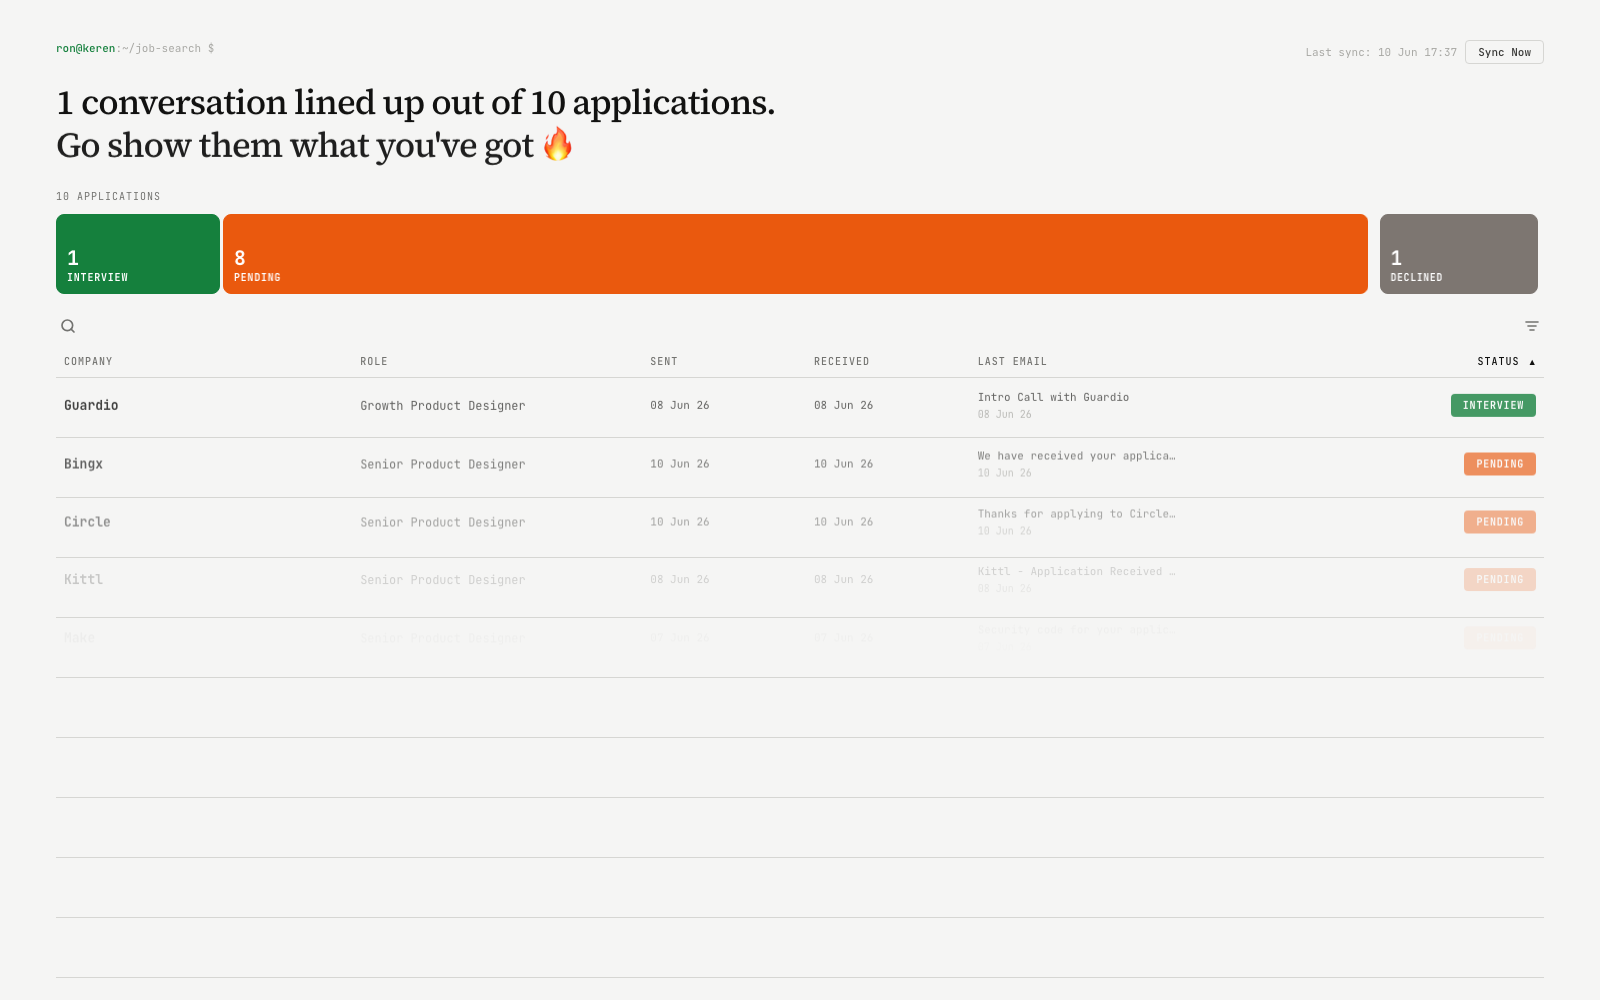
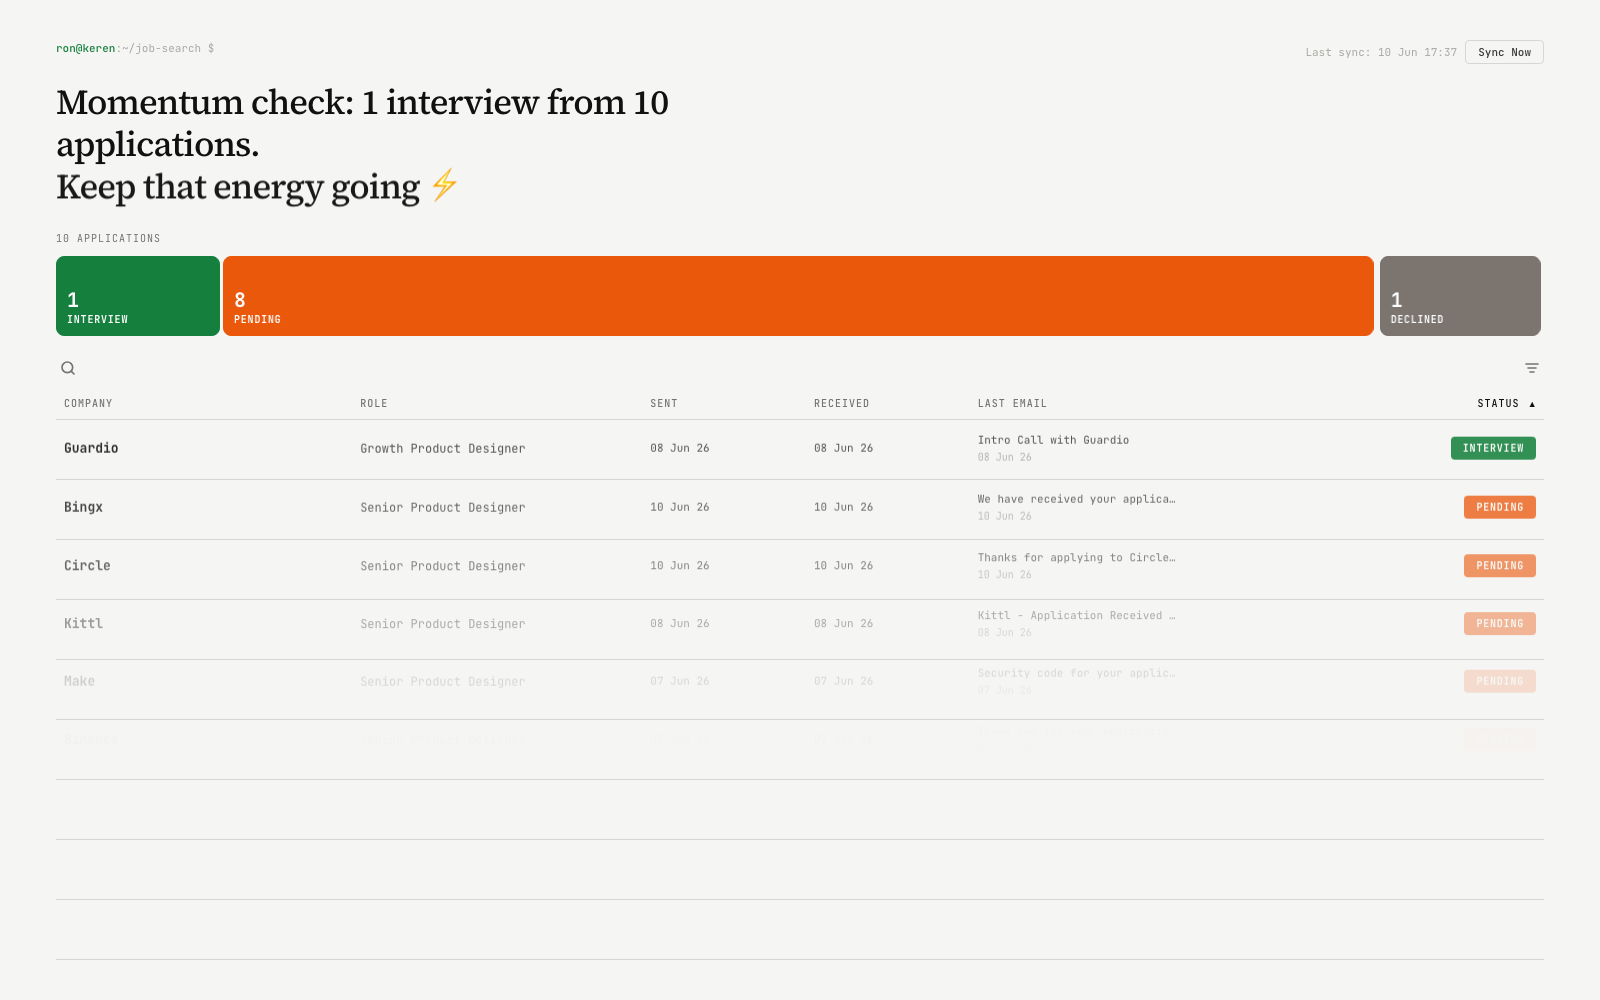
Add search clear button and fix popover outside-click handling
Update README dashboard screenshot

diff --git a/website/index.html b/website/index.html
@@ -189,12 +189,12 @@
     .table-toolbar {
       position: relative;
       display: flex;
-      justify-content: flex-end;
+      justify-content: space-between;
       align-items: center;
       gap: 12px;
       margin-bottom: 8px;
     }
-    .filter-toggle {
+    .search-toggle, .filter-toggle {
       display: inline-flex;
       align-items: center;
       justify-content: center;
@@ -208,8 +208,8 @@
       transition: color 0.12s;
       flex-shrink: 0;
     }
-    .filter-toggle:hover { color: var(--text); }
-    .filter-toggle svg { width: 16px; height: 16px; pointer-events: none; }
+    .search-toggle:hover, .filter-toggle:hover { color: var(--text); }
+    .search-toggle svg, .filter-toggle svg { width: 16px; height: 16px; pointer-events: none; }
 
     .filters { display: none; }
     .filters.open {
@@ -228,6 +228,57 @@
       z-index: 10;
       white-space: nowrap;
     }
+
+    .search-popover { display: none; }
+    .search-popover.open {
+      display: flex;
+      align-items: center;
+      position: absolute;
+      top: 100%;
+      left: 0;
+      margin-top: 8px;
+      padding: 8px 12px;
+      background: var(--bg);
+      border: 1px solid var(--border);
+      border-radius: 8px;
+      z-index: 10;
+      white-space: nowrap;
+    }
+    .search-input-wrap {
+      position: relative;
+      display: flex;
+      align-items: center;
+    }
+    .search-input {
+      font-family: var(--mono);
+      font-size: 11px;
+      padding: 4px 26px 4px 10px;
+      border: 1px solid var(--border);
+      background: none;
+      color: var(--text);
+      border-radius: 999px;
+      outline: none;
+      width: 180px;
+    }
+    .search-input:focus { border-color: var(--dim); }
+    .search-clear {
+      display: none;
+      position: absolute;
+      right: 6px;
+      align-items: center;
+      justify-content: center;
+      width: 16px;
+      height: 16px;
+      border: none;
+      background: none;
+      padding: 0;
+      color: var(--muted);
+      cursor: pointer;
+      border-radius: 50%;
+    }
+    .search-clear svg { width: 11px; height: 11px; pointer-events: none; }
+    .search-clear:hover { color: var(--text); }
+    .search-clear.visible { display: flex; }
 
     .date-input {
       font-family: var(--mono);
@@ -481,6 +532,17 @@
 
   <!-- Table toolbar -->
   <div class="table-toolbar">
+    <div class="search-popover" id="search-popover">
+      <div class="search-input-wrap">
+        <input type="text" class="search-input" id="search-input" placeholder="Search company..." />
+        <button class="search-clear" id="search-clear" onclick="clearSearch()" title="Clear">
+          <svg viewBox="0 0 24 24" fill="none" stroke="currentColor" stroke-width="2.5" stroke-linecap="round" stroke-linejoin="round"><line x1="18" y1="6" x2="6" y2="18"></line><line x1="6" y1="6" x2="18" y2="18"></line></svg>
+        </button>
+      </div>
+    </div>
+    <button class="search-toggle" id="search-toggle" onclick="toggleSearch()" title="Search">
+      <svg id="search-icon" viewBox="0 0 24 24" fill="none" stroke="currentColor" stroke-width="2.5" stroke-linecap="round" stroke-linejoin="round"><circle cx="11" cy="11" r="8"></circle><line x1="21" y1="21" x2="16.65" y2="16.65"></line></svg>
+    </button>
     <div class="filters" id="filters-row">
       <div class="filter-chips" id="status-filters"></div>
       <div class="filter-divider"></div>
@@ -521,6 +583,7 @@
     let allApps = [];
     let activeStatus = 'all';
     let dateFrom = null, dateTo = null;
+    let searchQuery = '';
 
     function fmtDate(iso) {
       if (!iso) return '—';
@@ -557,6 +620,7 @@
         if (activeStatus !== 'all' && a.status !== activeStatus) return false;
         if (dateFrom && a.dateApplied < dateFrom) return false;
         if (dateTo && a.dateApplied > dateTo) return false;
+        if (searchQuery && !a.company.toLowerCase().includes(searchQuery)) return false;
         return true;
       });
 
@@ -720,14 +784,39 @@
     }
 
     const FILTER_ICON = `<line x1="3" y1="6" x2="21" y2="6"></line><line x1="6" y1="12" x2="18" y2="12"></line><line x1="9" y1="18" x2="15" y2="18"></line>`;
+    const SEARCH_ICON = `<circle cx="11" cy="11" r="8"></circle><line x1="21" y1="21" x2="16.65" y2="16.65"></line>`;
     const CLOSE_ICON = `<line x1="18" y1="6" x2="6" y2="18"></line><line x1="6" y1="6" x2="18" y2="18"></line>`;
 
-    function toggleFilters() {
+    function toggleFilters(forceClose) {
       const row = document.getElementById('filters-row');
       const icon = document.getElementById('filter-icon');
-      const isOpen = row.classList.toggle('open');
+      const isOpen = forceClose ? false : !row.classList.contains('open');
+      row.classList.toggle('open', isOpen);
       icon.innerHTML = isOpen ? CLOSE_ICON : FILTER_ICON;
     }
+
+    function toggleSearch(forceClose) {
+      const popover = document.getElementById('search-popover');
+      const icon = document.getElementById('search-icon');
+      const isOpen = forceClose ? false : !popover.classList.contains('open');
+      popover.classList.toggle('open', isOpen);
+      icon.innerHTML = isOpen ? CLOSE_ICON : SEARCH_ICON;
+      if (isOpen) {
+        const input = document.getElementById('search-input');
+        document.getElementById('search-clear').classList.toggle('visible', input.value.length > 0);
+        input.focus();
+      }
+    }
+
+    document.addEventListener('click', e => {
+      const path = e.composedPath();
+      if (!path.some(el => el.id === 'search-popover' || el.id === 'search-toggle')) {
+        toggleSearch(true);
+      }
+      if (!path.some(el => el.id === 'filters-row' || el.id === 'filter-toggle')) {
+        toggleFilters(true);
+      }
+    });
 
     function setStatus(s) {
       activeStatus = s;
@@ -908,6 +997,23 @@
         btn.disabled = false;
       }
     }
+
+    function clearSearch() {
+      const input = document.getElementById('search-input');
+      input.value = '';
+      searchQuery = '';
+      document.getElementById('search-clear').classList.remove('visible');
+      expandedIndex = null;
+      renderTable();
+      input.focus();
+    }
+
+    document.getElementById('search-input').addEventListener('input', e => {
+      searchQuery = e.target.value.trim().toLowerCase();
+      document.getElementById('search-clear').classList.toggle('visible', e.target.value.length > 0);
+      expandedIndex = null;
+      renderTable();
+    });
 
     loadConfig();
     loadData();